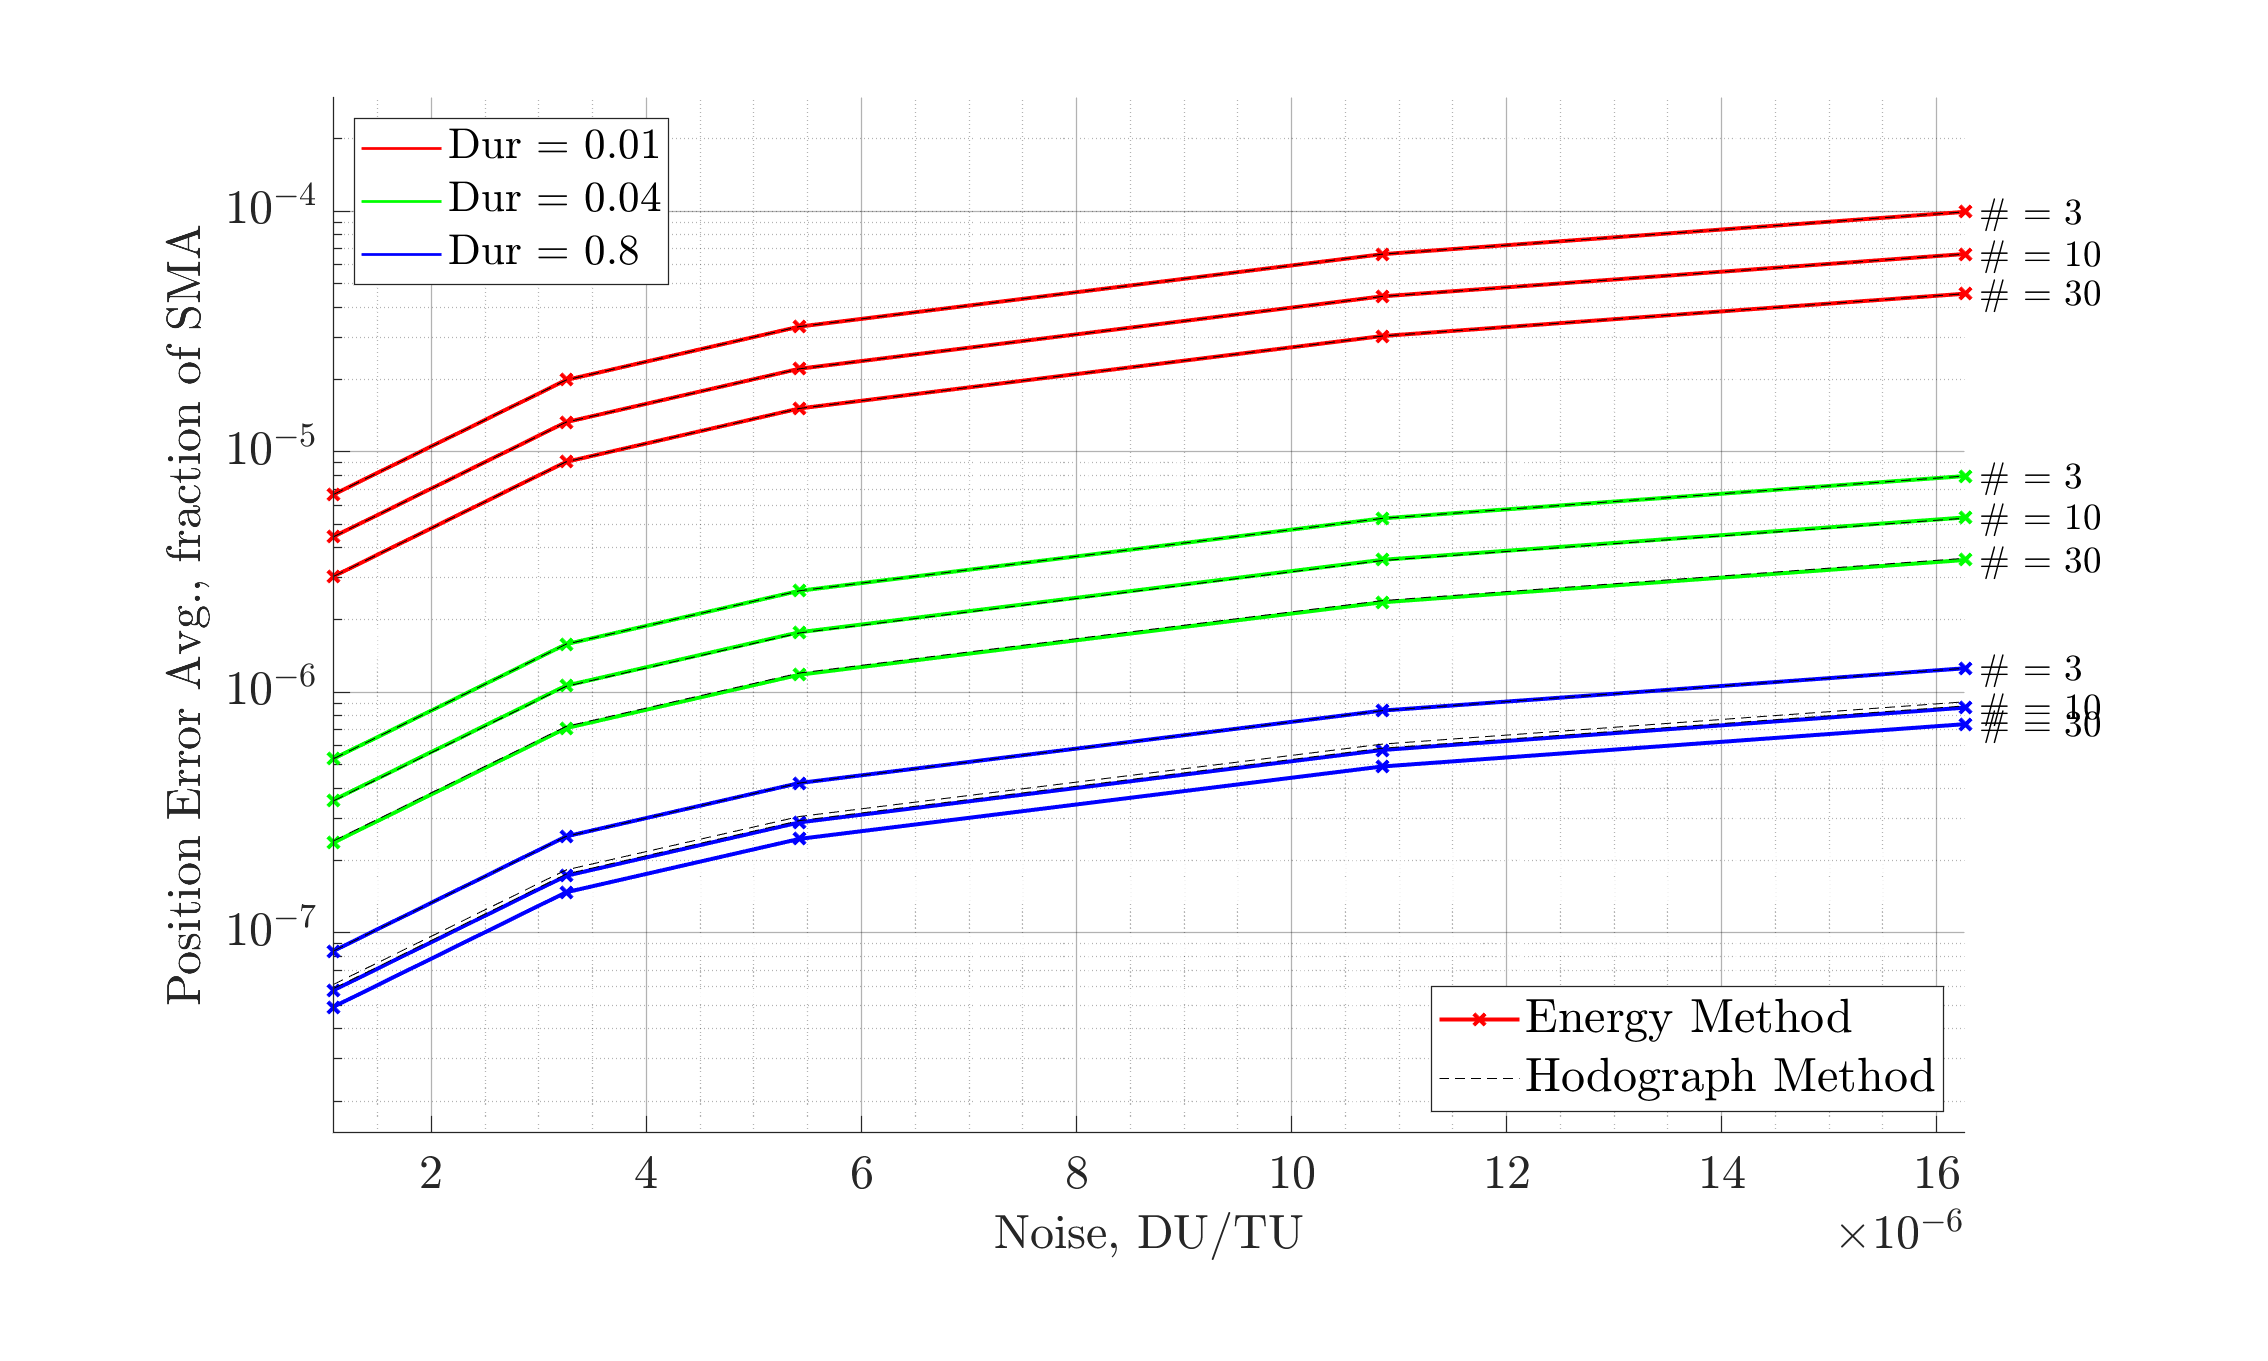
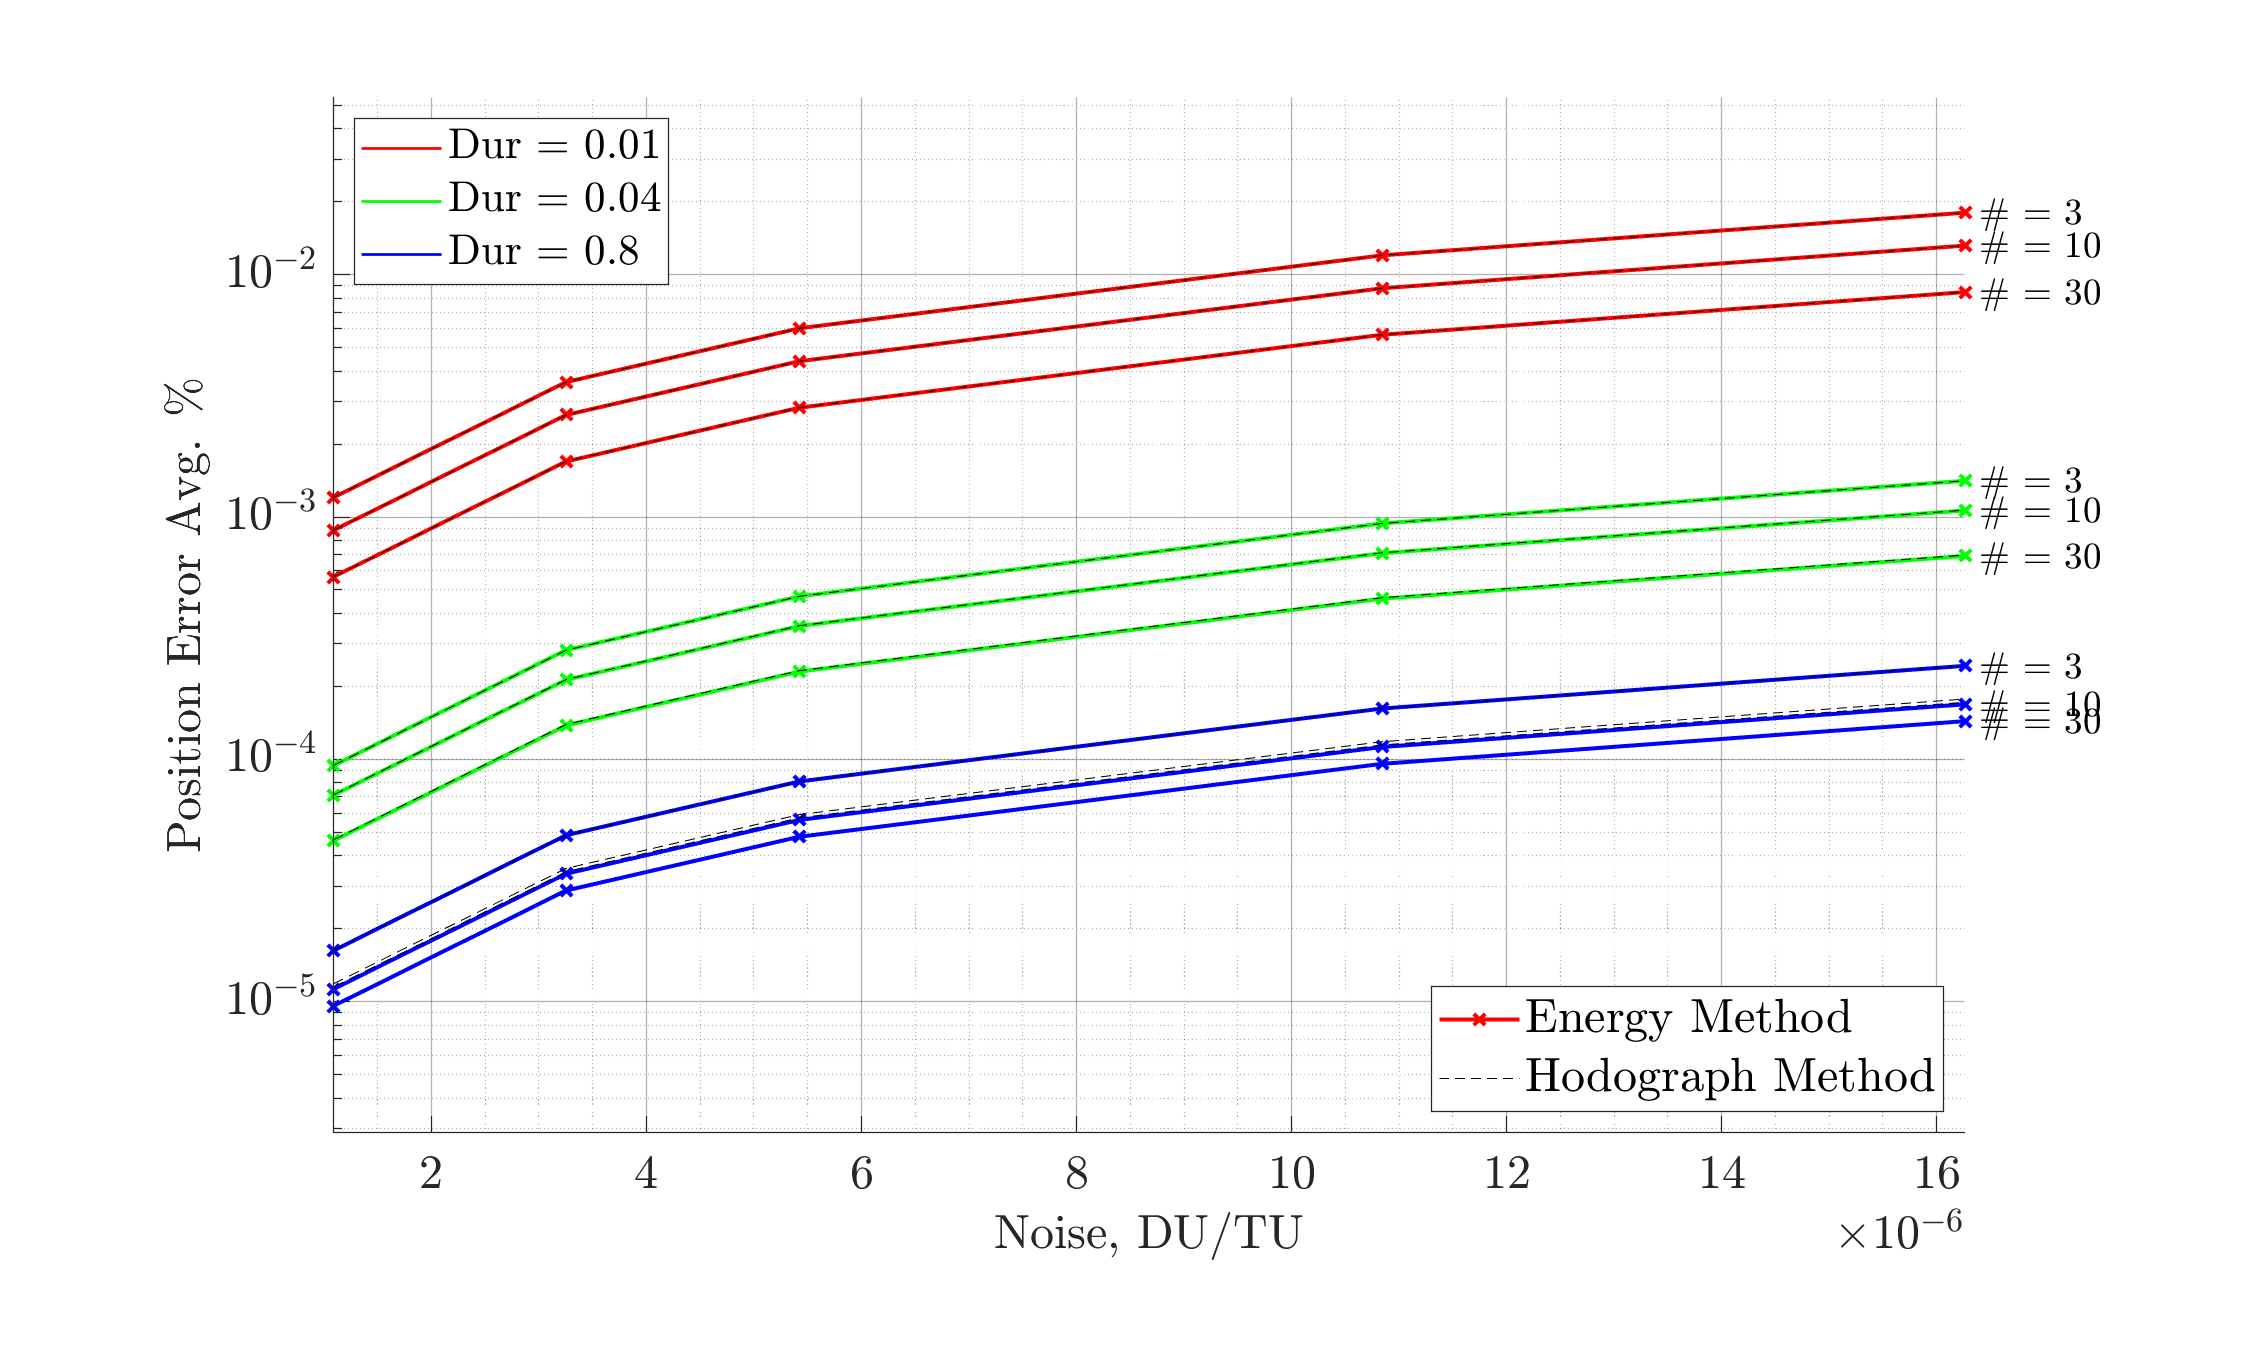
Generate figures for journal

Changed region(s): [[0.0617, 0.1543, 0.9259, 0.7406], [0.1235, 0.3395, 0.9259, 0.6172]]

diff --git a/journal/gmat/plotSpcraft.m b/journal/gmat/plotSpcraft.m
@@ -98,8 +98,8 @@ for k = 1:length(noiseVect)
     rOrig = rOrig(1,:);
     rHodo = rHodo(1,:);
     % store error data
-    errOrig(n,k) = norm(rOrig-rRef);
-    errHodo(n,k) = norm(rHodo-rRef);
+    errOrig(n,k) = norm(rOrig-rRef) / norm(rRef) * 100;
+    errHodo(n,k) = norm(rHodo-rRef) / norm(rRef) * 100;
 end %noiseVect
 end %numSims
 
@@ -110,35 +110,35 @@ color = cmap(i,:);
 figure(1)
 latexify('plotSize',[30 18])
 hold on
-plot(noiseVect,mean(errOrig)/SMA,origFormat,'Color',color,'LineWidth',origWidth)
-plot(noiseVect,mean(errHodo)/SMA,hodoFormat,'LineWidth',hodoWidth)
+plot(noiseVect,mean(errOrig),origFormat,'Color',color,'LineWidth',origWidth)
+plot(noiseVect,mean(errHodo),hodoFormat,'LineWidth',hodoWidth)
 hold off
 legend('Energy Method','Hodograph Method','Location','SouthEast')
 xlabel('Noise, DU/TU')
-ylabel('Position Error Avg., fraction of SMA')
+ylabel('Position Error Avg. \%')
 % store annotation data point
-labelArray{i,j,1} = [noiseVect(end),mean(errOrig(:,end))/SMA];
+labelArray{i,j,1} = [noiseVect(end),mean(errOrig(:,end))];
 latexify('fontSize',18)
 
 % --- standard deviation
 figure(2)
 latexify('plotSize',[30 18])
 hold on
-plot(noiseVect,std(errOrig)/SMA,origFormat,'Color',color,'LineWidth',origWidth)
-plot(noiseVect,std(errHodo)/SMA,hodoFormat,'LineWidth',hodoWidth)
+plot(noiseVect,std(errOrig),origFormat,'Color',color,'LineWidth',origWidth)
+plot(noiseVect,std(errHodo),hodoFormat,'LineWidth',hodoWidth)
 hold off
 legend('Energy Method','Hodograph Method','Location','SouthEast')
 xlabel('Noise, DU/TU')
-ylabel('Position Error StDev, fraction of SMA')
+ylabel('Position Error StDev \%')
 % store annotation data point
-labelArray{i,j,2} = [noiseVect(end),std(errOrig(:,end))/SMA];
+labelArray{i,j,2} = [noiseVect(end),std(errOrig(:,end))];
 latexify('fontSize',18)
 
 % --- log data
-meanOrig(j,:,i) = mean(errOrig)'/SMA;
-meanHodo(j,:,i) = mean(errHodo)'/SMA;
- stdOrig(j,:,i) =  std(errOrig)'/SMA;
- stdHodo(j,:,i) =  std(errHodo)'/SMA;
+meanOrig(j,:,i) = mean(errOrig)'/100;
+meanHodo(j,:,i) = mean(errHodo)'/100;
+ stdOrig(j,:,i) =  std(errOrig)'/100;
+ stdHodo(j,:,i) =  std(errHodo)'/100;
 
 end %obsVect
 end %durVect
@@ -260,6 +260,6 @@ end
 set(ax2,'Color','none',...
     'XTick',[],'YTick',[],...
     'Box','off') % make legend axes transparent
-ax2.XLabel.String = 5h'';
+ax2.XLabel.String = '';
 ax2.YLabel.String = '';
 end %plotSpcraft.m

diff --git a/journal/gmat/plotOrbit.m b/journal/gmat/plotOrbit.m
@@ -96,8 +96,8 @@ for k = 1:length(taVect)
     rOrig = rOrig(1,:);
     rHodo = rHodo(1,:);
     % store error data
-    errOrig(n,k) = norm(rOrig-rRef);
-    errHodo(n,k) = norm(rHodo-rRef);
+    errOrig(n,k) = norm(rOrig-rRef) / norm(rRef) * 100;
+    errHodo(n,k) = norm(rHodo-rRef) / norm(rRef) * 100;
 end %taVect
 end %numSims
 
@@ -109,35 +109,35 @@ taDeg = rad2deg(taVect);
 figure(1)
 latexify('plotSize',[30 18])
 hold on
-plot(taDeg,mean(errOrig)/SMA,origFormat,'Color',color,'LineWidth',origWidth)
-plot(taDeg,mean(errHodo)/SMA,hodoFormat,'LineWidth',hodoWidth)
+plot(taDeg,mean(errOrig),origFormat,'Color',color,'LineWidth',origWidth)
+plot(taDeg,mean(errHodo),hodoFormat,'LineWidth',hodoWidth)
 hold off
 legend('Energy Method','Hodograph Method','Location','SouthEast')
 xlabel('True Anomaly, deg')
-ylabel('Position Error Avg., fraction of SMA')
+ylabel('Position Error Avg. \%')
 % store annotation data point
-labelArray{i,j,1} = [taDeg(end),mean(errOrig(:,end))/SMA];
+labelArray{i,j,1} = [taDeg(end),mean(errOrig(:,end))];
 latexify('fontSize',18)
 
 % --- standard deviation
 figure(2)
 latexify('plotSize',[30 18])
 hold on
-plot(taDeg,std(errOrig)/SMA,origFormat,'Color',color,'LineWidth',origWidth)
-plot(taDeg,std(errHodo)/SMA,hodoFormat,'LineWidth',hodoWidth)
+plot(taDeg,std(errOrig),origFormat,'Color',color,'LineWidth',origWidth)
+plot(taDeg,std(errHodo),hodoFormat,'LineWidth',hodoWidth)
 hold off
 legend('Energy Method','Hodograph Method','Location','SouthEast')
 xlabel('True Anomaly, deg')
-ylabel('Position Error StDev, fraction of SMA')
+ylabel('Position Error StDev \%')
 % store annotation data point
-labelArray{i,j,2} = [taDeg(end),std(errOrig(:,end))/SMA];
+labelArray{i,j,2} = [taDeg(end),std(errOrig(:,end))];
 latexify('fontSize',18)
 
 % --- log data
-meanOrig(j,:,i) = mean(errOrig)'/SMA;
-meanHodo(j,:,i) = mean(errHodo)'/SMA;
- stdOrig(j,:,i) =  std(errOrig)'/SMA;
- stdHodo(j,:,i) =  std(errHodo)'/SMA;
+meanOrig(j,:,i) = mean(errOrig)' / 100;
+meanHodo(j,:,i) = mean(errHodo)' / 100;
+ stdOrig(j,:,i) =  std(errOrig)' / 100;
+ stdHodo(j,:,i) =  std(errHodo)' / 100;
 
 end %eccVect
 end %smaVect

diff --git a/viod_dev/Misc Testing/hodographTests/taErrorSim.m b/viod_dev/Misc Testing/hodographTests/taErrorSim.m
@@ -2,9 +2,9 @@ clear;clc
 
 addpath('..\functions')
 
-f0 = deg2rad(90);
+f0 = deg2rad(180);
 
-dfvect = deg2rad([1,5,10,15,30,60,90,120,150,180]);
+dfvect = deg2rad([10,15,30,60,90,120,150,180,210,240,270,300,330]);
 
 numObsv = 3;
 
@@ -12,13 +12,13 @@ mu = 1;
 a = 1;
 e = 0.9;
 i = deg2rad(45);
-omg = 0;
-w = 0;
+omg = deg2rad(0);
+w = deg2rad(0);
 noise = 0.0001;
 orbitParams = [a,e,i,omg,w,0];
 
 selObsv = 1;
-numSims = 3000;
+numSims = 2000;
 v = nan(numObsv,3);
 errVect = nan(numSims,length(dfvect));
 
@@ -29,17 +29,16 @@ for i = 1:length(dfvect)
         for j = 1:numObsv
             orbitParams(6) = fvect(j);
             [~,v(j,:)] = Get_Orb_Vects(orbitParams,mu);
-            if j == selObsv
-                rRef = Get_Orb_Vects(orbitParams,mu);
-            end
         end
+        orbitParams(6) = fvect(selObsv);
+        rRef = Get_Orb_Vects(orbitParams,mu);
         r = hodo(v+nvect,mu);
-        r = r(selObsv,:);
-        errVect(s,i) = norm(r-rRef') / norm(rRef');
+        r = r(selObsv,:)';
+        errVect(s,i) = norm(r-rRef) / norm(rRef);
     end
 end
 hold on
-plot(dfvect,mean(errVect).*dfvect.^2)
+plot(dfvect,mean(errVect).*dfvect.^0.5)
 hold off
 xlabel('df')
 ylabel('error metric')

diff --git a/viod_dev/Misc Testing/hodographTests/taErrorEstimator.m b/viod_dev/Misc Testing/hodographTests/taErrorEstimator.m
@@ -8,7 +8,7 @@ addpath('..\..\..\journal\cases')
 
 mu = 1;
 a  = 1;
-e  = 0.9;
+e  = 0.1;
 
 period = 0.1;
 period = period * 2*pi;
@@ -56,9 +56,9 @@ for i = 1:length(TA)
     df = mod(df,2*pi);
     
     % scale with measurement arc span
-    error = 1 / df^2;
+    error = 1 / df^1.5;
     % scale with position magnitude
-    error = error / sqrt( (1-e^2)/(1+e*cos(fvect(selObsv))) );
+%     error = error / ( (1-e^2)/(1+e*cos(fvect(selObsv))) );
     % scale with measurement magnitude
 %     error = error / sqrt( (1+2*e*cos(fvect(selObsv))+e^2)/(1-e^2) );
     errVect(i) = error;

diff --git a/viod_dev/Misc Testing/hodographTests/eccErrorEstimator.m b/viod_dev/Misc Testing/hodographTests/eccErrorEstimator.m
@@ -10,7 +10,7 @@ addpath('..\..\..\journal\cases')
 a = 1;
 mu = 1;
 period = 0.1;
-f0deg = 180;
+f0deg = 135;
 f0 = deg2rad(f0deg);
 
 % select the nth observation's position error for comparison

diff --git a/viod_dev/Misc Testing/hodographTests/clean.m b/viod_dev/Misc Testing/hodographTests/clean.m
@@ -1,0 +1,2 @@
+close all hidden
+clear;clc
